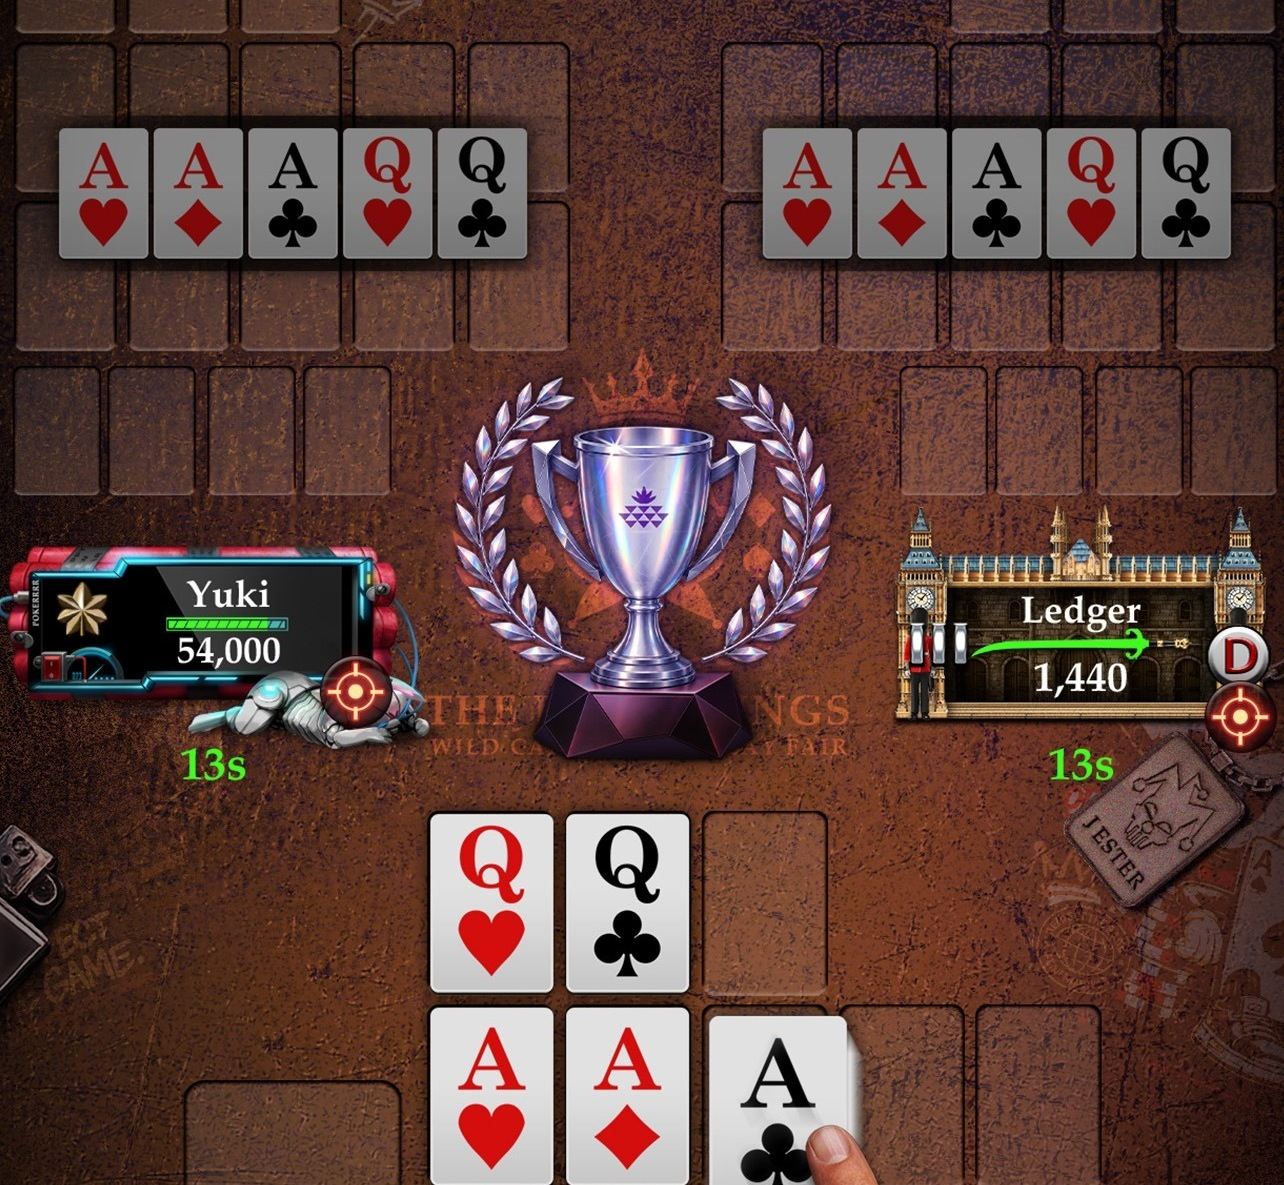
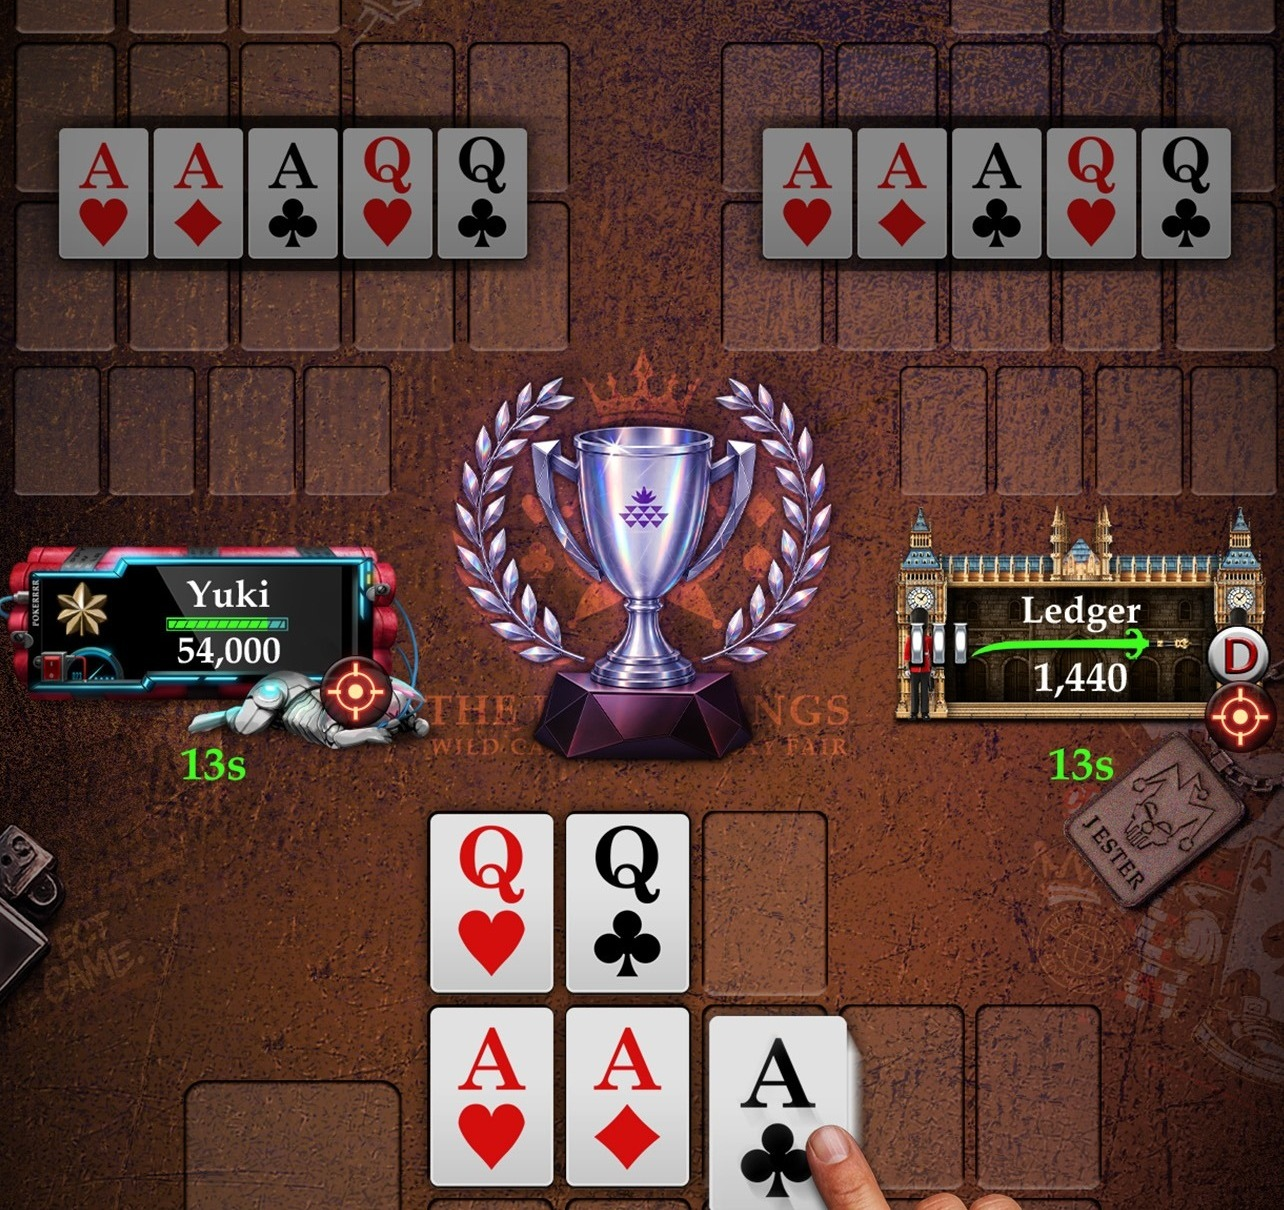
v29e-followup: re-crop SNG screenshot to keep more of the finger visible
User felt the v29e crop cut the touching finger too tight (looked like
just a bare touch point instead of a natural hand). Re-cropped from the
same pristine 1284x1340 original: kept the v29e top trim (removes the
dead empty-slot felt), but this time kept the bottom edge as-is instead
of cutting it further, giving 1284x1210. aspect-ratio updated to match
exactly, same cover-with-matching-ratio invariant as v29/v29b/v29e.

Claude-Session: https://claude.ai/code/session_019JukoFWLc4LWs8iKJSEpET

diff --git a/css/style.css b/css/style.css
@@ -655,6 +655,13 @@ p { margin: 0 0 16px; color: var(--color-text-muted); }
   filter: drop-shadow(0 24px 40px rgba(0, 0, 0, 0.55));
 }
 
+/* About us hero uses the full crew-poster art (landing-hero-crew.png),
+   which reads better bigger than the single-portrait default above —
+   scoped to .page-about only so index.html's boss.png hero is untouched. */
+.page-about .trust-portrait img {
+  width: min(560px, 94vw);
+}
+
 /* --- Carousel engine (shared: B feature cards + C collectibles, v26) ---
    Both sections used to be different things — B was a static 4x2 CSS
    grid with no interaction at all, C was a native overflow-x/scroll-snap
@@ -2069,11 +2076,18 @@ a.feature-card .feature-card-body .btn { pointer-events: none; }
      card with nothing else of the hand in frame. New crop trims most of
      that empty top margin and cuts the bottom right where the third
      player's AAA row ends, so only the natural fingertip-on-card touch
-     point remains (no more stray stub below it). aspect-ratio updated to
-     match the new image's exact ratio, same invariant as v29b: cover has
-     nothing left to crop, so the whole (re-cropped) image always shows,
-     no matter the column's rendered width. */
-  aspect-ratio: 1284 / 1185;
+     point remains (no more stray stub below it).
+     v29e-followup: v29e's bottom cut turned out too tight -- user asked
+     for more of the finger to stay visible, not just a bare touch point.
+     Re-cropped again from the same pristine 1284x1340 original, keeping
+     the same top trim (dead felt removed) but this time keeping the
+     bottom edge as-is (1284x1210), so the whole finger from knuckle to
+     fingertip reads naturally instead of being cut mid-nail.
+     aspect-ratio updated to match the new image's exact ratio, same
+     invariant as v29b/v29e: cover has nothing left to crop, so the
+     whole (re-cropped) image always shows, no matter the column's
+     rendered width. */
+  aspect-ratio: 1284 / 1210;
   object-position: top;
 }
 
